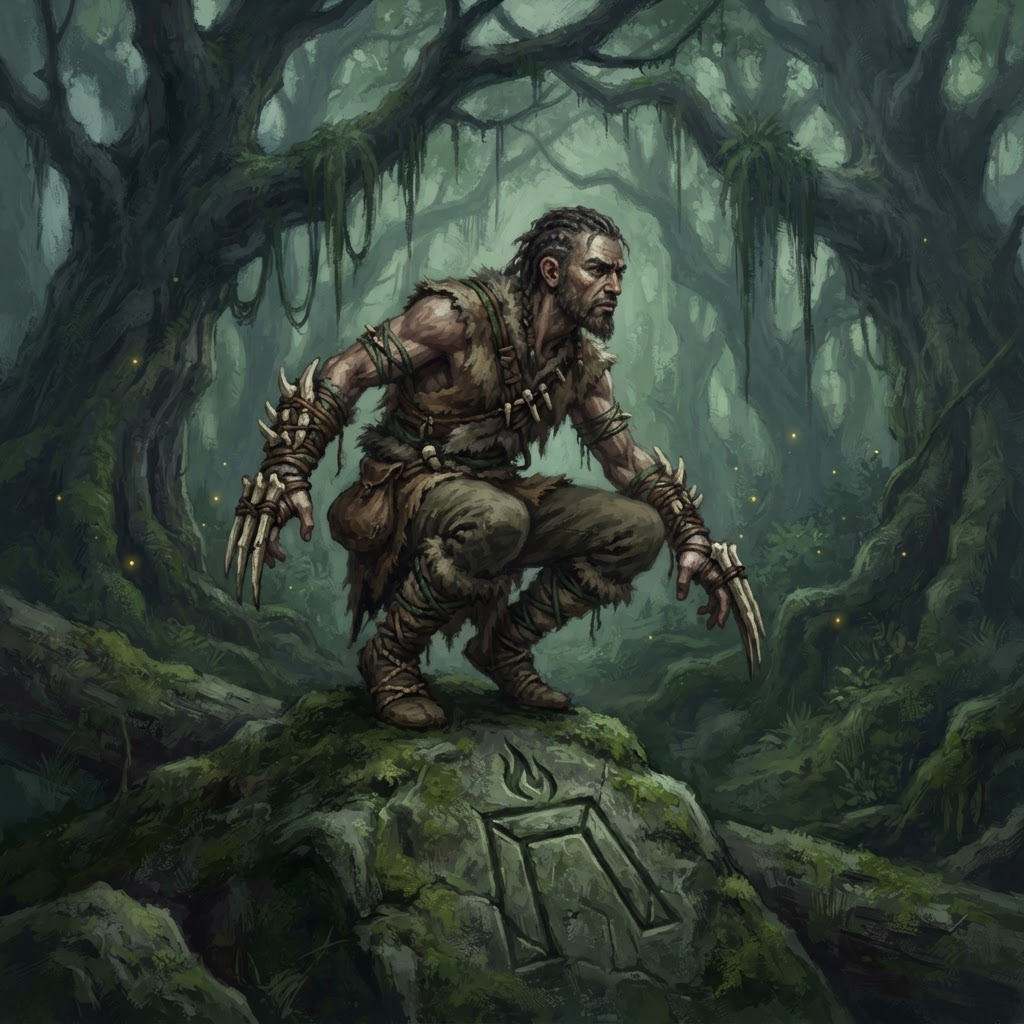
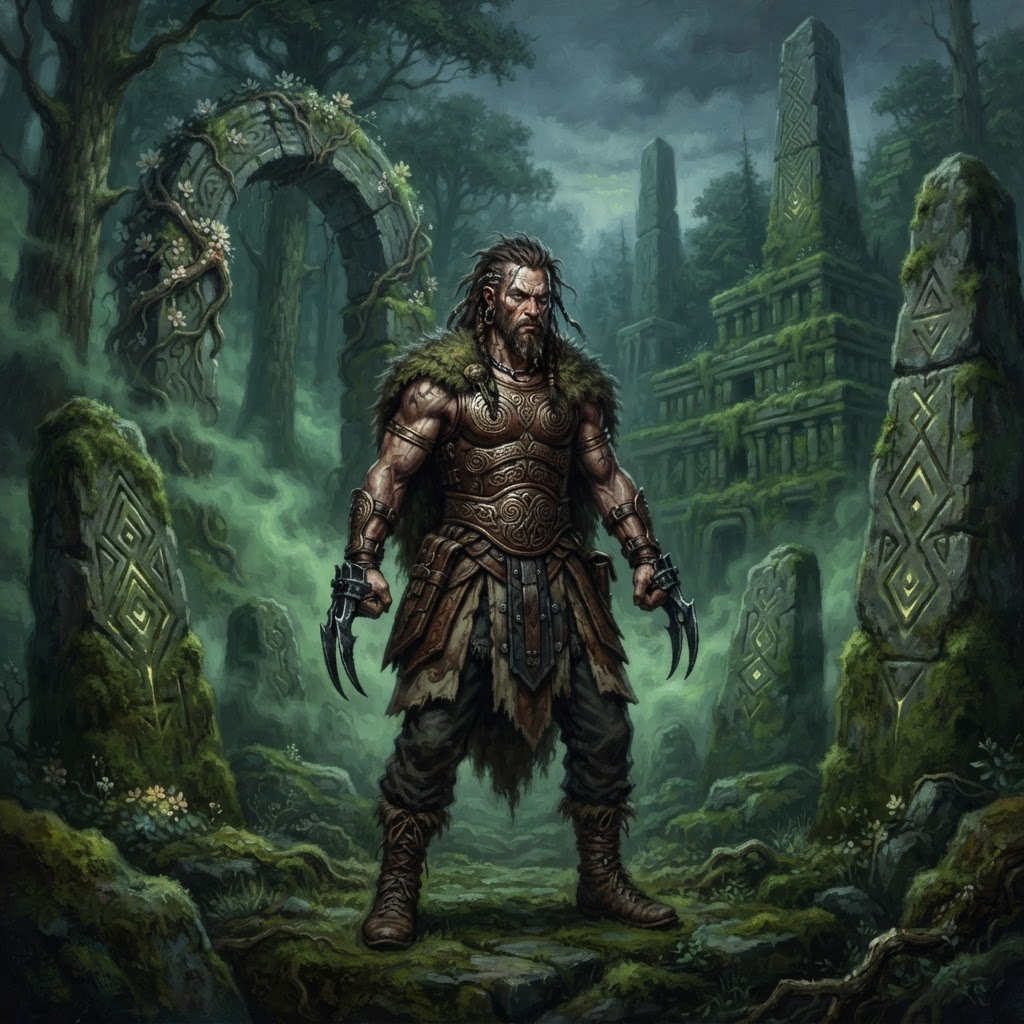
WILDBORN M V2 CANON LOCKED (Big: 'Keep') — MALE SET COMPLETE 6/6; female set re-rolls next, Sovereign-F first

diff --git a/docs/ROSTER-PASS-STATUS.md b/docs/ROSTER-PASS-STATUS.md
@@ -300,7 +300,8 @@ Full pass order: 12 god-emergence re-rolls (6 realms x King+Queen) → Luminary 
 
 - VEILBORN V1 REJECTED (Sept 8 ~4:43 PM, Big: weapons don't match — mismatched pair + an extra belt blade that shouldn't exist). KIT-INTEGRITY LAW added to class art: the class kit renders EXACTLY as designed (Veilborn = matched twin blades and NOTHING else — matched pairs must match; no extra/backup weapons on the body). V2 re-rolled under the law; V3 re-rolled fresh (matched twin blades, one low + one sheathed, empty belt, stair's-foot composition) — CANON LOCKED Sept 8 ~5:20 PM (Big: 'Yeah I approved it earlier'): art/approved/CLASS-VEILBORN-CANON.png. Queue advances: WEAVER (Marenth) next, then Wildborn.
 
-- VERA RENAME (Sept 8 ~7:39 PM, Big: 'Maeve new name is also Vera'): the lorekeeper NPC Maev is now VERA — name updated across live docs (CAMELOT-CREATURES-AND-MAGIC.md, campaign lore); archives keep historical mentions. Pending V2 art file renamed art/pending/NPC-VERA-V2-MYTHIC-CELTIC-FROSTHALL.png. The V2 mythic-Celtic re-roll is still in his court awaiting its verdict.- WEAVER M V2 CANON LOCKED (Sept 8 ~8:24 PM, Big: 'Keep') — art/approved/CLASS-WEAVER-CANON.png swapped to the V2 mythic-world roll (solid engraved breastplate, tide-teal whisper sea-cloak, gnarled staff, god-scale Marenth). Male set now 5/6 locked. WILDBORN M rolls last to close the male set (Everbloom mythic world).
+- VERA RENAME (Sept 8 ~7:39 PM, Big: 'Maeve new name is also Vera'): the lorekeeper NPC Maev is now VERA — name updated across live docs (CAMELOT-CREATURES-AND-MAGIC.md, campaign lore); archives keep historical mentions. Pending V2 art file renamed art/pending/NPC-VERA-V2-MYTHIC-CELTIC-FROSTHALL.png. The V2 mythic-Celtic re-roll is still in his court awaiting its verdict.- WILDBORN M V2 CANON LOCKED (Sept 8 ~8:23 PM, Big: 'Keep') — art/approved/CLASS-WILDBORN-CANON.png (claw gauntlets, deep-moss whisper, god-scale Everbloom). MALE SET COMPLETE 6/6: Sovereign ✓ Ravager ✓ Warden ✓ Veilborn ✓ Weaver ✓ Wildborn ✓. FEMALE SET re-rolls next under the mythic-world template (Ashfall V6 staging law), Sovereign-F first.
+- WEAVER M V2 CANON LOCKED (Sept 8 ~8:24 PM, Big: 'Keep') — art/approved/CLASS-WEAVER-CANON.png swapped to the V2 mythic-world roll (solid engraved breastplate, tide-teal whisper sea-cloak, gnarled staff, god-scale Marenth). Male set now 5/6 locked. WILDBORN M rolls last to close the male set (Everbloom mythic world).
 - VEILBORN M V3 CANON LOCKED (Sept 8 ~8:19 PM, Big: 'Keep') — art/approved/CLASS-VEILBORN-CANON.png swapped to the V3 mythic-world roll (solid engraved breastplate, dusk-violet whisper cloak, twin leaf-blades, god-scale Duskmourn). Male set now 4/6 locked: Sovereign ✓ Ravager ✓ Warden ✓ Veilborn ✓. WEAVER M rolls next (Marenth mythic world).
 - WARDEN M V2 CANON LOCKED (Sept 8 ~8:02 PM, Big: 'Keep warden') — art/approved/CLASS-WARDEN-CANON.png swapped to the V2 mythic-world roll (solid engraved breastplate, bone-grey whisper cloak, warhammer head-down, god-scale Stoneheart). Male set now 3/6 locked: Sovereign ✓ Ravager ✓ Warden ✓. VEILBORN M rolls next (Duskmourn mythic world).
 - RAVAGER M V3 CANON LOCKED (Sept 8 ~7:45 PM, Big: 'ravager approved aswell') — art/approved/CLASS-RAVAGER-CANON.png swapped to the V3 mythic-world roll (solid engraved breastplate, oxide-red torn mantle, greatsword tip-down, god-scale Ashfall caldera). Male set queue advances: WARDEN M rolls next (Stoneheart mythic world).
